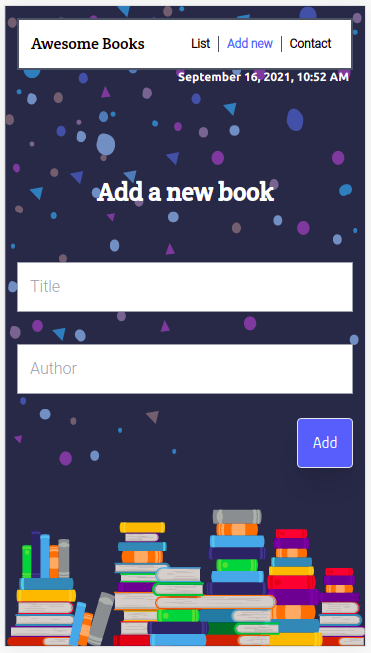
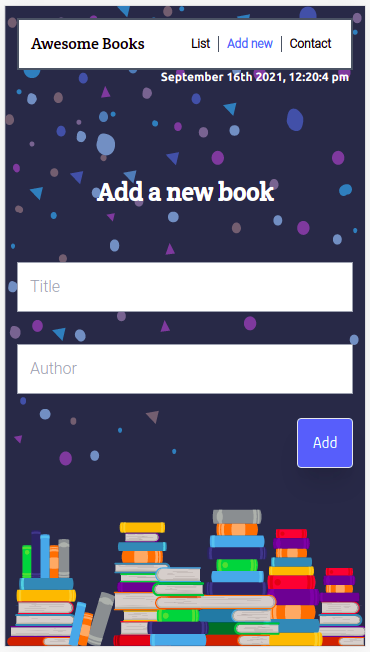
Remove: luxon to fix linters error Add: date time from javascript Update screenshots

diff --git a/script.js b/script.js
@@ -13,7 +13,7 @@ class BookStore {
     this.liList = document.getElementById('li-list');
     this.liAdd = document.getElementById('li-add');
     this.liContact = document.getElementById('li-contact');
-    this.dateTime = luxon.DateTime;
+    this.today = new Date;
   }
 
   isFormSubmit = () => {
@@ -66,9 +66,29 @@ class BookStore {
   }
 
   getCurrentDateTime = () => {
-    const today = this.dateTime.now();
-    const formatted = {month: 'long', day: 'numeric', year: 'numeric', hour: 'numeric', minute: 'numeric'};
-    this.dateTimeSpan.innerHTML = today.toLocaleString(formatted);
+    const month = this.today.toLocaleString('en-us', {month: 'long'});
+    const date = this.today.getDate();
+    const year = this.today.getFullYear();
+    const hour = this.today.getHours();
+    const minutes = this.today.getMinutes();
+    const seconds = this.today.getSeconds();
+    let timePrefix;
+    let formattedDate;
+
+    switch (date) {
+      case 1: formattedDate = `${date}st`;
+      case 2: formattedDate = `${date}nd`;
+      case 3: formattedDate = `${date}rd`;
+      default: formattedDate = `${date}th`;
+    }
+
+    if (hour >= 12) {
+      timePrefix = 'pm';
+    } else {
+      timePrefix = 'am';
+    }
+
+    this.dateTimeSpan.innerHTML = `${month} ${formattedDate} ${year}, ${hour}:${minutes}:${seconds} ${timePrefix}`;
   }
 
   hideElements = (args) => {

diff --git a/index.html b/index.html
@@ -65,7 +65,6 @@
       <img id="book-illustration" src="./images/book-design.svg" alt="book illustration">
     </div>
   </main>
-  <script src="https://cdn.jsdelivr.net/npm/luxon@2.0.2/build/global/luxon.min.js"></script>
   <script src="./script.js"></script>
 </body>
 </html>
